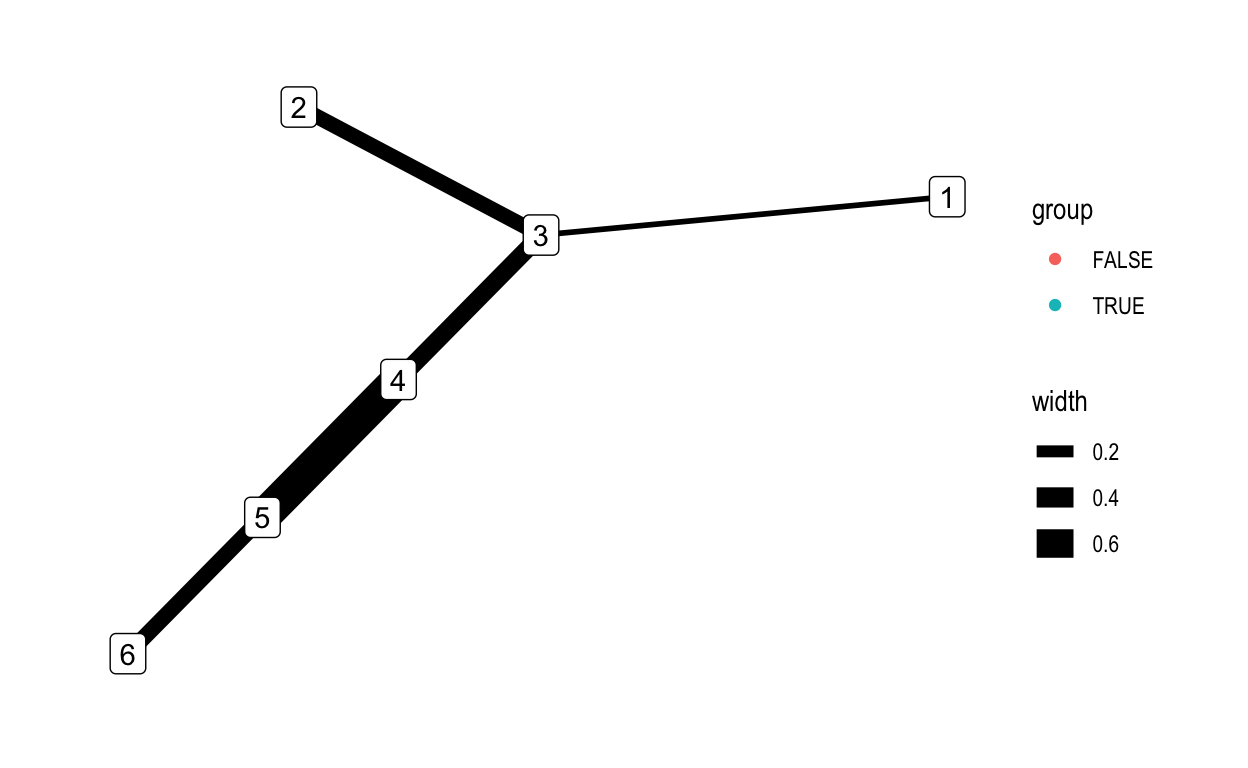
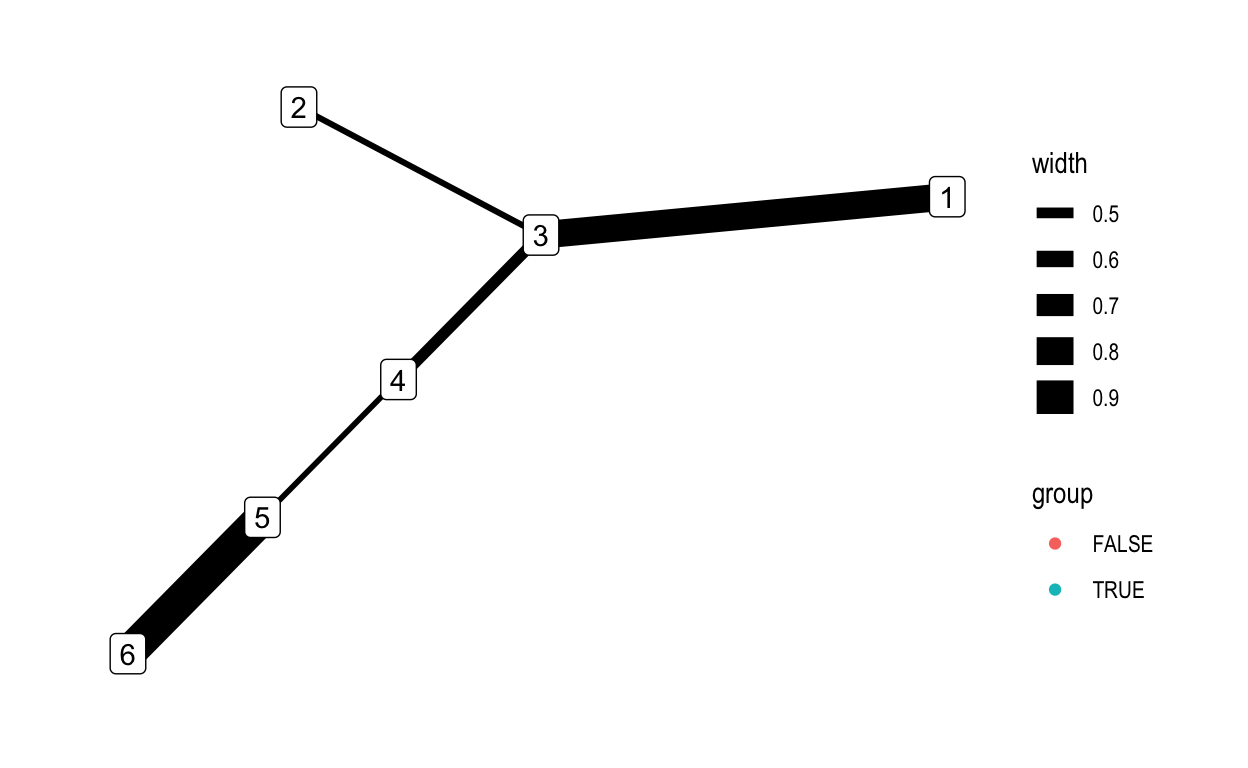
updating figures

diff --git a/docs/posts/2021-03-06-week8-2/index.html b/docs/posts/2021-03-06-week8-2/index.html
@@ -116,7 +116,7 @@ code span.wa { color: #545454; font-weight: bold; font-style: italic; } /* Warni
 <!--/radix_placeholder_rmarkdown_metadata-->
   
   <script type="text/json" id="radix-resource-manifest">
-  {"type":"character","attributes":{},"value":["week8-2_files/anchor-4.2.2/anchor.min.js","week8-2_files/bowser-1.9.3/bowser.min.js","week8-2_files/distill-2.2.21/template.v2.js","week8-2_files/figure-html5/unnamed-chunk-2-1.png","week8-2_files/figure-html5/unnamed-chunk-3-1.png","week8-2_files/figure-html5/unnamed-chunk-4-1.png","week8-2_files/figure-html5/unnamed-chunk-8-1.png","week8-2_files/header-attrs-2.6/header-attrs.js","week8-2_files/jquery-1.11.3/jquery.min.js","week8-2_files/webcomponents-2.0.0/webcomponents.js"]}
+  {"type":"character","attributes":{},"value":["week8-2_files/anchor-4.2.2/anchor.min.js","week8-2_files/bowser-1.9.3/bowser.min.js","week8-2_files/d3-4.5.0/LICENSE","week8-2_files/d3-4.5.0/d3.min.js","week8-2_files/distill-2.2.21/template.v2.js","week8-2_files/figure-html5/unnamed-chunk-2-1.png","week8-2_files/figure-html5/unnamed-chunk-3-1.png","week8-2_files/figure-html5/unnamed-chunk-4-1.png","week8-2_files/figure-html5/unnamed-chunk-8-1.png","week8-2_files/forceNetwork-binding-0.4/forceNetwork.js","week8-2_files/header-attrs-2.6/header-attrs.js","week8-2_files/htmlwidgets-1.5.3/htmlwidgets.js","week8-2_files/jquery-1.11.3/jquery.min.js","week8-2_files/webcomponents-2.0.0/webcomponents.js"]}
   </script>
   <!--radix_placeholder_navigation_in_header-->
 <meta name="distill:offset" content="../.."/>
@@ -2255,6 +2255,7 @@ d-article ul > li { /*to add back in space between bullet items that I took away
 <div class="layout-chunk" data-layout="l-body">
 <div class="sourceCode">
 <pre><code><span class='kw'><a href='https://rdrr.io/r/base/library.html'>library</a></span><span class='op'>(</span><span class='st'><a href='https://dplyr.tidyverse.org'>"dplyr"</a></span><span class='op'>)</span>
+<span class='kw'><a href='https://rdrr.io/r/base/library.html'>library</a></span><span class='op'>(</span><span class='st'><a href='https://yihui.org/knitr/'>"knitr"</a></span><span class='op'>)</span>
 <span class='kw'><a href='https://rdrr.io/r/base/library.html'>library</a></span><span class='op'>(</span><span class='st'><a href='https://ggplot2.tidyverse.org'>"ggplot2"</a></span><span class='op'>)</span>
 <span class='kw'><a href='https://rdrr.io/r/base/library.html'>library</a></span><span class='op'>(</span><span class='st'><a href='https://ggraph.data-imaginist.com'>"ggraph"</a></span><span class='op'>)</span>
 <span class='kw'><a href='https://rdrr.io/r/base/library.html'>library</a></span><span class='op'>(</span><span class='st'>"gridExtra"</span><span class='op'>)</span>
@@ -2341,18 +2342,14 @@ Figure 2: A comparison of two layout algorithms for the same network.
 <span class='fu'><a href='https://rdrr.io/pkg/networkD3/man/simpleNetwork.html'>simpleNetwork</a></span><span class='op'>(</span><span class='va'>school_edges</span><span class='op'>)</span>
 </code></pre>
 </div>
-<div id="htmlwidget-5935f8809b971b6cbe13" style="width:624px;height:384px;" class="forceNetwork html-widget"></div>
-<script type="application/json" data-for="htmlwidget-5935f8809b971b6cbe13">{"x":{"links":{"source":[0,0,0,0,0,11,11,22,22,33,33,33,33,44,44,55,55,55,66,68,68,69,69,69,69,69,1,1,1,1,2,2,2,3,3,3,3,4,4,5,6,6,6,7,7,8,8,8,9,9,9,9,9,10,10,10,10,10,12,12,12,12,13,13,13,13,14,14,14,14,14,14,14,14,14,15,16,16,16,16,16,16,17,17,17,18,18,19,19,20,20,21,21,21,23,23,23,23,24,24,24,24,25,25,26,26,27,27,27,27,28,28,29,29,29,29,30,30,30,30,30,31,31,32,32,32,32,34,34,34,34,35,35,35,36,37,37,37,37,37,38,38,38,38,39,39,39,39,40,40,40,40,41,41,41,41,42,42,42,42,43,43,43,45,45,45,45,45,46,46,47,47,47,47,47,47,48,48,48,49,49,49,50,50,50,50,50,50,51,51,52,52,52,53,53,53,53,54,54,56,56,57,57,57,57,57,58,58,58,58,59,59,59,60,60,60,60,60,61,61,61,61,61,62,62,62,62,63,63,63,63,63,64,64,64,64,64,65,65,65,65,65,65,0,0,0,11,11,33,33,33,33,33,44,44,44,55,55,55,55,55,66,66,66,68,68,68,69,69,69,69,67,67,1,1,1,1,1,2,2,2,3,3,3,3,3,4,4,5,5,5,5,6,6,6,7,7,7,7,7,8,9,9,9,9,9,10,10,10,10,10,12,12,12,12,12,13,13,13,13,13,14,14,14,14,14,15,16,16,16,16,16,17,17,17,17,17,18,18,18,19,19,19,20,20,21,21,21,21,23,23,23,23,23,23,24,24,24,24,25,27,27,27,27,27,28,28,28,29,29,29,29,30,30,30,30,30,31,31,31,32,32,32,32,32,34,34,34,35,35,35,35,36,36,37,37,37,37,37,38,38,38,38,38,39,40,40,40,40,40,41,41,41,41,41,42,42,42,43,43,43,43,43,45,45,45,46,46,46,46,47,47,47,47,47,48,48,48,48,48,49,49,49,49,49,50,50,50,50,51,51,52,52,52,52,52,53,53,53,53,53,54,54,54,56,56,57,57,57,57,57,58,58,58,59,59,59,59,60,60,60,60,60,61,61,61,61,61,62,62,62,63,63,63,63,63,64,64,64,64,64,65,65,65,65,65],"target":[4,5,12,47,48,12,13,69,5,44,8,9,35,9,35,3,10,13,7,4,7,2,10,12,13,43,9,42,45,46,10,12,13,7,10,12,13,12,13,10,8,32,35,66,68,1,6,9,33,1,6,8,17,55,2,12,13,29,13,43,47,48,10,12,29,43,31,35,42,45,46,53,56,59,62,43,23,26,27,31,32,34,8,28,31,29,30,3,29,26,40,67,28,31,16,24,35,56,27,32,34,35,30,38,20,40,23,24,34,35,21,31,12,13,43,48,18,19,25,38,52,26,28,6,34,35,62,27,32,35,62,32,34,62,39,41,47,48,50,64,25,30,47,52,36,40,45,46,20,42,45,46,47,48,64,65,39,45,46,62,12,13,64,39,40,42,46,62,42,45,37,41,48,57,63,65,37,41,47,58,64,65,37,41,48,60,64,65,54,59,30,47,48,51,54,56,59,51,59,53,59,60,61,63,64,65,60,61,63,65,53,56,62,58,61,63,64,65,57,58,60,63,65,21,54,56,59,57,58,60,61,65,57,60,61,63,65,57,58,60,61,63,64,5,12,13,69,13,44,1,6,9,35,33,9,35,68,3,7,10,19,3,7,12,3,4,18,10,12,13,64,8,9,33,6,9,24,34,10,12,13,44,55,7,10,13,3,13,0,2,10,12,32,56,62,0,66,68,3,13,9,33,44,69,1,2,69,2,9,12,13,10,13,29,43,48,10,12,18,29,43,45,46,57,63,65,18,20,23,25,27,30,44,26,28,31,35,13,29,30,24,27,34,26,28,14,28,31,42,19,24,27,29,30,35,27,32,34,35,38,19,24,32,34,35,17,20,31,12,13,18,30,18,29,38,52,64,17,20,28,6,24,34,35,62,19,32,35,24,32,34,62,39,42,41,43,47,48,50,30,41,43,47,48,45,37,41,43,47,48,39,43,45,46,48,14,45,46,12,37,40,47,48,41,46,48,45,48,57,64,37,41,43,48,64,37,41,45,46,47,56,61,62,64,65,41,43,60,64,54,59,30,40,41,49,62,51,54,56,64,65,51,59,60,53,64,60,61,63,64,65,60,64,65,61,62,64,65,57,58,61,64,65,53,57,60,64,65,56,64,65,57,58,60,61,65,57,60,61,63,65,49,56,60,61,64],"value":[1,1,1,1,1,1,1,1,1,1,1,1,1,1,1,1,1,1,1,1,1,1,1,1,1,1,1,1,1,1,1,1,1,1,1,1,1,1,1,1,1,1,1,1,1,1,1,1,1,1,1,1,1,1,1,1,1,1,1,1,1,1,1,1,1,1,1,1,1,1,1,1,1,1,1,1,1,1,1,1,1,1,1,1,1,1,1,1,1,1,1,1,1,1,1,1,1,1,1,1,1,1,1,1,1,1,1,1,1,1,1,1,1,1,1,1,1,1,1,1,1,1,1,1,1,1,1,1,1,1,1,1,1,1,1,1,1,1,1,1,1,1,1,1,1,1,1,1,1,1,1,1,1,1,1,1,1,1,1,1,1,1,1,1,1,1,1,1,1,1,1,1,1,1,1,1,1,1,1,1,1,1,1,1,1,1,1,1,1,1,1,1,1,1,1,1,1,1,1,1,1,1,1,1,1,1,1,1,1,1,1,1,1,1,1,1,1,1,1,1,1,1,1,1,1,1,1,1,1,1,1,1,1,1,1,1,1,1,1,1,1,1,1,1,1,1,1,1,1,1,1,1,1,1,1,1,1,1,1,1,1,1,1,1,1,1,1,1,1,1,1,1,1,1,1,1,1,1,1,1,1,1,1,1,1,1,1,1,1,1,1,1,1,1,1,1,1,1,1,1,1,1,1,1,1,1,1,1,1,1,1,1,1,1,1,1,1,1,1,1,1,1,1,1,1,1,1,1,1,1,1,1,1,1,1,1,1,1,1,1,1,1,1,1,1,1,1,1,1,1,1,1,1,1,1,1,1,1,1,1,1,1,1,1,1,1,1,1,1,1,1,1,1,1,1,1,1,1,1,1,1,1,1,1,1,1,1,1,1,1,1,1,1,1,1,1,1,1,1,1,1,1,1,1,1,1,1,1,1,1,1,1,1,1,1,1,1,1,1,1,1,1,1,1,1,1,1,1,1,1,1,1,1,1,1,1,1,1,1,1,1,1,1,1,1,1,1,1,1,1,1,1,1,1,1,1,1,1,1,1,1,1,1,1,1,1,1,1,1,1,1,1,1,1,1,1,1,1,1,1,1,1,1,1,1,1,1,1,1,1,1,1,1,1,1,1,1,1,1,1,1,1,1,1,1,1],"colour":["#666","#666","#666","#666","#666","#666","#666","#666","#666","#666","#666","#666","#666","#666","#666","#666","#666","#666","#666","#666","#666","#666","#666","#666","#666","#666","#666","#666","#666","#666","#666","#666","#666","#666","#666","#666","#666","#666","#666","#666","#666","#666","#666","#666","#666","#666","#666","#666","#666","#666","#666","#666","#666","#666","#666","#666","#666","#666","#666","#666","#666","#666","#666","#666","#666","#666","#666","#666","#666","#666","#666","#666","#666","#666","#666","#666","#666","#666","#666","#666","#666","#666","#666","#666","#666","#666","#666","#666","#666","#666","#666","#666","#666","#666","#666","#666","#666","#666","#666","#666","#666","#666","#666","#666","#666","#666","#666","#666","#666","#666","#666","#666","#666","#666","#666","#666","#666","#666","#666","#666","#666","#666","#666","#666","#666","#666","#666","#666","#666","#666","#666","#666","#666","#666","#666","#666","#666","#666","#666","#666","#666","#666","#666","#666","#666","#666","#666","#666","#666","#666","#666","#666","#666","#666","#666","#666","#666","#666","#666","#666","#666","#666","#666","#666","#666","#666","#666","#666","#666","#666","#666","#666","#666","#666","#666","#666","#666","#666","#666","#666","#666","#666","#666","#666","#666","#666","#666","#666","#666","#666","#666","#666","#666","#666","#666","#666","#666","#666","#666","#666","#666","#666","#666","#666","#666","#666","#666","#666","#666","#666","#666","#666","#666","#666","#666","#666","#666","#666","#666","#666","#666","#666","#666","#666","#666","#666","#666","#666","#666","#666","#666","#666","#666","#666","#666","#666","#666","#666","#666","#666","#666","#666","#666","#666","#666","#666","#666","#666","#666","#666","#666","#666","#666","#666","#666","#666","#666","#666","#666","#666","#666","#666","#666","#666","#666","#666","#666","#666","#666","#666","#666","#666","#666","#666","#666","#666","#666","#666","#666","#666","#666","#666","#666","#666","#666","#666","#666","#666","#666","#666","#666","#666","#666","#666","#666","#666","#666","#666","#666","#666","#666","#666","#666","#666","#666","#666","#666","#666","#666","#666","#666","#666","#666","#666","#666","#666","#666","#666","#666","#666","#666","#666","#666","#666","#666","#666","#666","#666","#666","#666","#666","#666","#666","#666","#666","#666","#666","#666","#666","#666","#666","#666","#666","#666","#666","#666","#666","#666","#666","#666","#666","#666","#666","#666","#666","#666","#666","#666","#666","#666","#666","#666","#666","#666","#666","#666","#666","#666","#666","#666","#666","#666","#666","#666","#666","#666","#666","#666","#666","#666","#666","#666","#666","#666","#666","#666","#666","#666","#666","#666","#666","#666","#666","#666","#666","#666","#666","#666","#666","#666","#666","#666","#666","#666","#666","#666","#666","#666","#666","#666","#666","#666","#666","#666","#666","#666","#666","#666","#666","#666","#666","#666","#666","#666","#666","#666","#666","#666","#666","#666","#666","#666","#666","#666","#666","#666","#666","#666","#666","#666","#666","#666","#666","#666","#666","#666","#666","#666","#666","#666","#666","#666","#666","#666","#666","#666","#666","#666","#666","#666","#666","#666","#666","#666","#666","#666","#666","#666","#666","#666","#666","#666","#666","#666","#666","#666","#666","#666","#666","#666","#666","#666","#666","#666","#666","#666","#666","#666","#666","#666","#666","#666","#666","#666","#666","#666","#666","#666","#666","#666","#666","#666","#666","#666","#666","#666"]},"nodes":{"name":["1","10","11","12","13","14","15","16","17","18","19","2","20","21","22","23","24","25","26","27","28","29","3","30","31","32","33","34","35","36","37","38","39","4","40","41","42","43","44","45","46","47","48","49","5","50","51","52","53","54","55","56","57","58","59","6","60","61","62","63","64","65","66","67","68","69","7","70","8","9"],"group":[1,1,1,1,1,1,1,1,1,1,1,1,1,1,1,1,1,1,1,1,1,1,1,1,1,1,1,1,1,1,1,1,1,1,1,1,1,1,1,1,1,1,1,1,1,1,1,1,1,1,1,1,1,1,1,1,1,1,1,1,1,1,1,1,1,1,1,1,1,1],"nodesize":[8,8,8,8,8,8,8,8,8,8,8,8,8,8,8,8,8,8,8,8,8,8,8,8,8,8,8,8,8,8,8,8,8,8,8,8,8,8,8,8,8,8,8,8,8,8,8,8,8,8,8,8,8,8,8,8,8,8,8,8,8,8,8,8,8,8,8,8,8,8]},"options":{"NodeID":"name","Group":"group","colourScale":"d3.scaleOrdinal(['#3182bd'])","fontSize":7,"fontFamily":"serif","clickTextSize":17.5,"linkDistance":50,"linkWidth":"'1.5px'.toString()","charge":-30,"opacity":0.6,"zoom":false,"legend":false,"arrows":false,"nodesize":true,"radiusCalculation":"d.nodesize","bounded":false,"opacityNoHover":1,"clickAction":null}},"evals":[],"jsHooks":[]}</script>
+<div id="htmlwidget-7ec1bdb84e00cfbec202" style="width:624px;height:384px;" class="forceNetwork html-widget"></div>
+<script type="application/json" data-for="htmlwidget-7ec1bdb84e00cfbec202">{"x":{"links":{"source":[0,0,0,0,0,11,11,22,22,33,33,33,33,44,44,55,55,55,66,68,68,69,69,69,69,69,1,1,1,1,2,2,2,3,3,3,3,4,4,5,6,6,6,7,7,8,8,8,9,9,9,9,9,10,10,10,10,10,12,12,12,12,13,13,13,13,14,14,14,14,14,14,14,14,14,15,16,16,16,16,16,16,17,17,17,18,18,19,19,20,20,21,21,21,23,23,23,23,24,24,24,24,25,25,26,26,27,27,27,27,28,28,29,29,29,29,30,30,30,30,30,31,31,32,32,32,32,34,34,34,34,35,35,35,36,37,37,37,37,37,38,38,38,38,39,39,39,39,40,40,40,40,41,41,41,41,42,42,42,42,43,43,43,45,45,45,45,45,46,46,47,47,47,47,47,47,48,48,48,49,49,49,50,50,50,50,50,50,51,51,52,52,52,53,53,53,53,54,54,56,56,57,57,57,57,57,58,58,58,58,59,59,59,60,60,60,60,60,61,61,61,61,61,62,62,62,62,63,63,63,63,63,64,64,64,64,64,65,65,65,65,65,65,0,0,0,11,11,33,33,33,33,33,44,44,44,55,55,55,55,55,66,66,66,68,68,68,69,69,69,69,67,67,1,1,1,1,1,2,2,2,3,3,3,3,3,4,4,5,5,5,5,6,6,6,7,7,7,7,7,8,9,9,9,9,9,10,10,10,10,10,12,12,12,12,12,13,13,13,13,13,14,14,14,14,14,15,16,16,16,16,16,17,17,17,17,17,18,18,18,19,19,19,20,20,21,21,21,21,23,23,23,23,23,23,24,24,24,24,25,27,27,27,27,27,28,28,28,29,29,29,29,30,30,30,30,30,31,31,31,32,32,32,32,32,34,34,34,35,35,35,35,36,36,37,37,37,37,37,38,38,38,38,38,39,40,40,40,40,40,41,41,41,41,41,42,42,42,43,43,43,43,43,45,45,45,46,46,46,46,47,47,47,47,47,48,48,48,48,48,49,49,49,49,49,50,50,50,50,51,51,52,52,52,52,52,53,53,53,53,53,54,54,54,56,56,57,57,57,57,57,58,58,58,59,59,59,59,60,60,60,60,60,61,61,61,61,61,62,62,62,63,63,63,63,63,64,64,64,64,64,65,65,65,65,65],"target":[4,5,12,47,48,12,13,69,5,44,8,9,35,9,35,3,10,13,7,4,7,2,10,12,13,43,9,42,45,46,10,12,13,7,10,12,13,12,13,10,8,32,35,66,68,1,6,9,33,1,6,8,17,55,2,12,13,29,13,43,47,48,10,12,29,43,31,35,42,45,46,53,56,59,62,43,23,26,27,31,32,34,8,28,31,29,30,3,29,26,40,67,28,31,16,24,35,56,27,32,34,35,30,38,20,40,23,24,34,35,21,31,12,13,43,48,18,19,25,38,52,26,28,6,34,35,62,27,32,35,62,32,34,62,39,41,47,48,50,64,25,30,47,52,36,40,45,46,20,42,45,46,47,48,64,65,39,45,46,62,12,13,64,39,40,42,46,62,42,45,37,41,48,57,63,65,37,41,47,58,64,65,37,41,48,60,64,65,54,59,30,47,48,51,54,56,59,51,59,53,59,60,61,63,64,65,60,61,63,65,53,56,62,58,61,63,64,65,57,58,60,63,65,21,54,56,59,57,58,60,61,65,57,60,61,63,65,57,58,60,61,63,64,5,12,13,69,13,44,1,6,9,35,33,9,35,68,3,7,10,19,3,7,12,3,4,18,10,12,13,64,8,9,33,6,9,24,34,10,12,13,44,55,7,10,13,3,13,0,2,10,12,32,56,62,0,66,68,3,13,9,33,44,69,1,2,69,2,9,12,13,10,13,29,43,48,10,12,18,29,43,45,46,57,63,65,18,20,23,25,27,30,44,26,28,31,35,13,29,30,24,27,34,26,28,14,28,31,42,19,24,27,29,30,35,27,32,34,35,38,19,24,32,34,35,17,20,31,12,13,18,30,18,29,38,52,64,17,20,28,6,24,34,35,62,19,32,35,24,32,34,62,39,42,41,43,47,48,50,30,41,43,47,48,45,37,41,43,47,48,39,43,45,46,48,14,45,46,12,37,40,47,48,41,46,48,45,48,57,64,37,41,43,48,64,37,41,45,46,47,56,61,62,64,65,41,43,60,64,54,59,30,40,41,49,62,51,54,56,64,65,51,59,60,53,64,60,61,63,64,65,60,64,65,61,62,64,65,57,58,61,64,65,53,57,60,64,65,56,64,65,57,58,60,61,65,57,60,61,63,65,49,56,60,61,64],"value":[1,1,1,1,1,1,1,1,1,1,1,1,1,1,1,1,1,1,1,1,1,1,1,1,1,1,1,1,1,1,1,1,1,1,1,1,1,1,1,1,1,1,1,1,1,1,1,1,1,1,1,1,1,1,1,1,1,1,1,1,1,1,1,1,1,1,1,1,1,1,1,1,1,1,1,1,1,1,1,1,1,1,1,1,1,1,1,1,1,1,1,1,1,1,1,1,1,1,1,1,1,1,1,1,1,1,1,1,1,1,1,1,1,1,1,1,1,1,1,1,1,1,1,1,1,1,1,1,1,1,1,1,1,1,1,1,1,1,1,1,1,1,1,1,1,1,1,1,1,1,1,1,1,1,1,1,1,1,1,1,1,1,1,1,1,1,1,1,1,1,1,1,1,1,1,1,1,1,1,1,1,1,1,1,1,1,1,1,1,1,1,1,1,1,1,1,1,1,1,1,1,1,1,1,1,1,1,1,1,1,1,1,1,1,1,1,1,1,1,1,1,1,1,1,1,1,1,1,1,1,1,1,1,1,1,1,1,1,1,1,1,1,1,1,1,1,1,1,1,1,1,1,1,1,1,1,1,1,1,1,1,1,1,1,1,1,1,1,1,1,1,1,1,1,1,1,1,1,1,1,1,1,1,1,1,1,1,1,1,1,1,1,1,1,1,1,1,1,1,1,1,1,1,1,1,1,1,1,1,1,1,1,1,1,1,1,1,1,1,1,1,1,1,1,1,1,1,1,1,1,1,1,1,1,1,1,1,1,1,1,1,1,1,1,1,1,1,1,1,1,1,1,1,1,1,1,1,1,1,1,1,1,1,1,1,1,1,1,1,1,1,1,1,1,1,1,1,1,1,1,1,1,1,1,1,1,1,1,1,1,1,1,1,1,1,1,1,1,1,1,1,1,1,1,1,1,1,1,1,1,1,1,1,1,1,1,1,1,1,1,1,1,1,1,1,1,1,1,1,1,1,1,1,1,1,1,1,1,1,1,1,1,1,1,1,1,1,1,1,1,1,1,1,1,1,1,1,1,1,1,1,1,1,1,1,1,1,1,1,1,1,1,1,1,1,1,1,1,1,1,1,1,1,1,1,1,1,1,1,1,1,1,1,1,1,1,1,1,1,1,1,1,1,1,1,1],"colour":["#666","#666","#666","#666","#666","#666","#666","#666","#666","#666","#666","#666","#666","#666","#666","#666","#666","#666","#666","#666","#666","#666","#666","#666","#666","#666","#666","#666","#666","#666","#666","#666","#666","#666","#666","#666","#666","#666","#666","#666","#666","#666","#666","#666","#666","#666","#666","#666","#666","#666","#666","#666","#666","#666","#666","#666","#666","#666","#666","#666","#666","#666","#666","#666","#666","#666","#666","#666","#666","#666","#666","#666","#666","#666","#666","#666","#666","#666","#666","#666","#666","#666","#666","#666","#666","#666","#666","#666","#666","#666","#666","#666","#666","#666","#666","#666","#666","#666","#666","#666","#666","#666","#666","#666","#666","#666","#666","#666","#666","#666","#666","#666","#666","#666","#666","#666","#666","#666","#666","#666","#666","#666","#666","#666","#666","#666","#666","#666","#666","#666","#666","#666","#666","#666","#666","#666","#666","#666","#666","#666","#666","#666","#666","#666","#666","#666","#666","#666","#666","#666","#666","#666","#666","#666","#666","#666","#666","#666","#666","#666","#666","#666","#666","#666","#666","#666","#666","#666","#666","#666","#666","#666","#666","#666","#666","#666","#666","#666","#666","#666","#666","#666","#666","#666","#666","#666","#666","#666","#666","#666","#666","#666","#666","#666","#666","#666","#666","#666","#666","#666","#666","#666","#666","#666","#666","#666","#666","#666","#666","#666","#666","#666","#666","#666","#666","#666","#666","#666","#666","#666","#666","#666","#666","#666","#666","#666","#666","#666","#666","#666","#666","#666","#666","#666","#666","#666","#666","#666","#666","#666","#666","#666","#666","#666","#666","#666","#666","#666","#666","#666","#666","#666","#666","#666","#666","#666","#666","#666","#666","#666","#666","#666","#666","#666","#666","#666","#666","#666","#666","#666","#666","#666","#666","#666","#666","#666","#666","#666","#666","#666","#666","#666","#666","#666","#666","#666","#666","#666","#666","#666","#666","#666","#666","#666","#666","#666","#666","#666","#666","#666","#666","#666","#666","#666","#666","#666","#666","#666","#666","#666","#666","#666","#666","#666","#666","#666","#666","#666","#666","#666","#666","#666","#666","#666","#666","#666","#666","#666","#666","#666","#666","#666","#666","#666","#666","#666","#666","#666","#666","#666","#666","#666","#666","#666","#666","#666","#666","#666","#666","#666","#666","#666","#666","#666","#666","#666","#666","#666","#666","#666","#666","#666","#666","#666","#666","#666","#666","#666","#666","#666","#666","#666","#666","#666","#666","#666","#666","#666","#666","#666","#666","#666","#666","#666","#666","#666","#666","#666","#666","#666","#666","#666","#666","#666","#666","#666","#666","#666","#666","#666","#666","#666","#666","#666","#666","#666","#666","#666","#666","#666","#666","#666","#666","#666","#666","#666","#666","#666","#666","#666","#666","#666","#666","#666","#666","#666","#666","#666","#666","#666","#666","#666","#666","#666","#666","#666","#666","#666","#666","#666","#666","#666","#666","#666","#666","#666","#666","#666","#666","#666","#666","#666","#666","#666","#666","#666","#666","#666","#666","#666","#666","#666","#666","#666","#666","#666","#666","#666","#666","#666","#666","#666","#666","#666","#666","#666","#666","#666","#666","#666","#666","#666","#666","#666","#666","#666","#666","#666","#666","#666","#666","#666","#666","#666","#666","#666","#666","#666","#666","#666","#666","#666","#666","#666","#666","#666"]},"nodes":{"name":["1","10","11","12","13","14","15","16","17","18","19","2","20","21","22","23","24","25","26","27","28","29","3","30","31","32","33","34","35","36","37","38","39","4","40","41","42","43","44","45","46","47","48","49","5","50","51","52","53","54","55","56","57","58","59","6","60","61","62","63","64","65","66","67","68","69","7","70","8","9"],"group":[1,1,1,1,1,1,1,1,1,1,1,1,1,1,1,1,1,1,1,1,1,1,1,1,1,1,1,1,1,1,1,1,1,1,1,1,1,1,1,1,1,1,1,1,1,1,1,1,1,1,1,1,1,1,1,1,1,1,1,1,1,1,1,1,1,1,1,1,1,1],"nodesize":[8,8,8,8,8,8,8,8,8,8,8,8,8,8,8,8,8,8,8,8,8,8,8,8,8,8,8,8,8,8,8,8,8,8,8,8,8,8,8,8,8,8,8,8,8,8,8,8,8,8,8,8,8,8,8,8,8,8,8,8,8,8,8,8,8,8,8,8,8,8]},"options":{"NodeID":"name","Group":"group","colourScale":"d3.scaleOrdinal(['#3182bd'])","fontSize":7,"fontFamily":"serif","clickTextSize":17.5,"linkDistance":50,"linkWidth":"'1.5px'.toString()","charge":-30,"opacity":0.6,"zoom":false,"legend":false,"arrows":false,"nodesize":true,"radiusCalculation":"d.nodesize","bounded":false,"opacityNoHover":1,"clickAction":null}},"evals":[],"jsHooks":[]}</script>
 </div>
 <ol start="9" type="1">
 <li><p>The key drawback of node-link diagrams is that they do not scale well to networks with a large number of nodes or with a large number of edges per node. The nodes and edges begin to overlap too much, and the result looks like a « hairball. »</p></li>
 <li><p>In this situation, it is possible to use additional structure in the data to salvage the node-link display. For example, in a large tree, a rectangular or BubbleTree layout can be used.</p></li>
 </ol>
 <div class="layout-chunk" data-layout="l-body">
-<div class="sourceCode">
-<pre><code><span class='fu'>include_graphics</span><span class='op'>(</span><span class='st'>"https://uwmadison.box.com/shared/static/r9boadgujdkp0xy3hk23n6j2ri13yh6h.png"</span><span class='op'>)</span>
-</code></pre>
-</div>
 <div class="figure"><span id="fig:unnamed-chunk-6"></span>
 <img src="https://uwmadison.box.com/shared/static/r9boadgujdkp0xy3hk23n6j2ri13yh6h.png" alt="Example rectangular and BubbleTree layouts, for very large trees, as shown in Visualization Analysis and Design."  />
 <p class="caption">
@@ -2360,12 +2357,8 @@ Figure 3: Example rectangular and BubbleTree layouts, for very large trees, as s
 </p>
 </div>
 </div>
-<pre><code>If a large network has a modular structure, then it is possible to first lay out the separate clusters far apart from one another, before running force directed placement.</code></pre>
+<p>If a large network has a modular structure, then it is possible to first lay out the separate clusters far apart from one another, before running force directed placement.</p>
 <div class="layout-chunk" data-layout="l-body">
-<div class="sourceCode">
-<pre><code><span class='fu'>include_graphics</span><span class='op'>(</span><span class='st'>"https://uwmadison.box.com/shared/static/0zihaty78j8ytmdjwlqetbxpjzbrz8k6.png"</span><span class='op'>)</span>
-</code></pre>
-</div>
 <div class="figure"><span id="fig:unnamed-chunk-7"></span>
 <img src="https://uwmadison.box.com/shared/static/0zihaty78j8ytmdjwlqetbxpjzbrz8k6.png" alt="A hierarchical force directed layout algorithm, as shown in Visualization Analysis and Design."  />
 <p class="caption">
@@ -2373,8 +2366,8 @@ Figure 4: A hierarchical force directed layout algorithm, as shown in Visualizat
 </p>
 </div>
 </div>
-<pre><code>If many edges go through a few shared paths, it may be possible to bundle them.</code></pre>
-<div class="layout-chunk" data-layout="l-body">
+<p>If many edges go through a few shared paths, it may be possible to bundle them.</p>
+<div class="layout-chunk" data-layout="l-page">
 <div class="sourceCode">
 <pre><code><span class='va'>from</span> <span class='op'>&lt;-</span> <span class='fu'><a href='https://rdrr.io/r/base/match.html'>match</a></span><span class='op'>(</span><span class='va'>flare</span><span class='op'>$</span><span class='va'>imports</span><span class='op'>$</span><span class='va'>from</span>, <span class='va'>flare</span><span class='op'>$</span><span class='va'>vertices</span><span class='op'>$</span><span class='va'>name</span><span class='op'>)</span>
 <span class='va'>to</span> <span class='op'>&lt;-</span> <span class='fu'><a href='https://rdrr.io/r/base/match.html'>match</a></span><span class='op'>(</span><span class='va'>flare</span><span class='op'>$</span><span class='va'>imports</span><span class='op'>$</span><span class='va'>to</span>, <span class='va'>flare</span><span class='op'>$</span><span class='va'>vertices</span><span class='op'>$</span><span class='va'>name</span><span class='op'>)</span>
@@ -2384,12 +2377,17 @@ Figure 4: A hierarchical force directed layout algorithm, as shown in Visualizat
   <span class='fu'><a href='https://ggplot2.tidyverse.org/reference/coord_fixed.html'>coord_fixed</a></span><span class='op'>(</span><span class='op'>)</span>
 </code></pre>
 </div>
-<p><img src="week8-2_files/figure-html5/unnamed-chunk-8-1.png" width="1152" /></p>
+<div class="figure"><span id="fig:unnamed-chunk-8"></span>
+<img src="week8-2_files/figure-html5/unnamed-chunk-8-1.png" alt="In edge bundling, similar paths are placed close to one another." width="1152" />
+<p class="caption">
+Figure 5: In edge bundling, similar paths are placed close to one another.
+</p>
+</div>
 </div>
 <ol start="11" type="1">
 <li>To summarize, node-link diagrams are very good for characterizing local structure, but struggle with large networks.</li>
 </ol>
-<div class="sourceCode" id="cb3"><pre class="sourceCode r distill-force-highlighting-css"><code class="sourceCode r"></code></pre></div>
+<div class="sourceCode" id="cb1"><pre class="sourceCode r distill-force-highlighting-css"><code class="sourceCode r"></code></pre></div>
 <!--radix_placeholder_article_footer-->
 <!--/radix_placeholder_article_footer-->
 </div>

diff --git a/docs/posts/2021-03-06-week8-1/index.html b/docs/posts/2021-03-06-week8-1/index.html
@@ -2345,13 +2345,13 @@ Figure 4: Directories in a file system can be organized into a tree, with parent
 # A rooted tree
 #
 # Edge Data: 5 x 3 (active)
-   from    to  width
-  &lt;int&gt; &lt;int&gt;  &lt;dbl&gt;
-1     1     3 0.0482
-2     2     3 0.278 
-3     3     4 0.340 
-4     4     5 0.736 
-5     5     6 0.295 
+   from    to width
+  &lt;int&gt; &lt;int&gt; &lt;dbl&gt;
+1     1     3 0.792
+2     2     3 0.420
+3     3     4 0.510
+4     4     5 0.412
+5     5     6 0.910
 #
 # Node Data: 6 x 2
      id group
